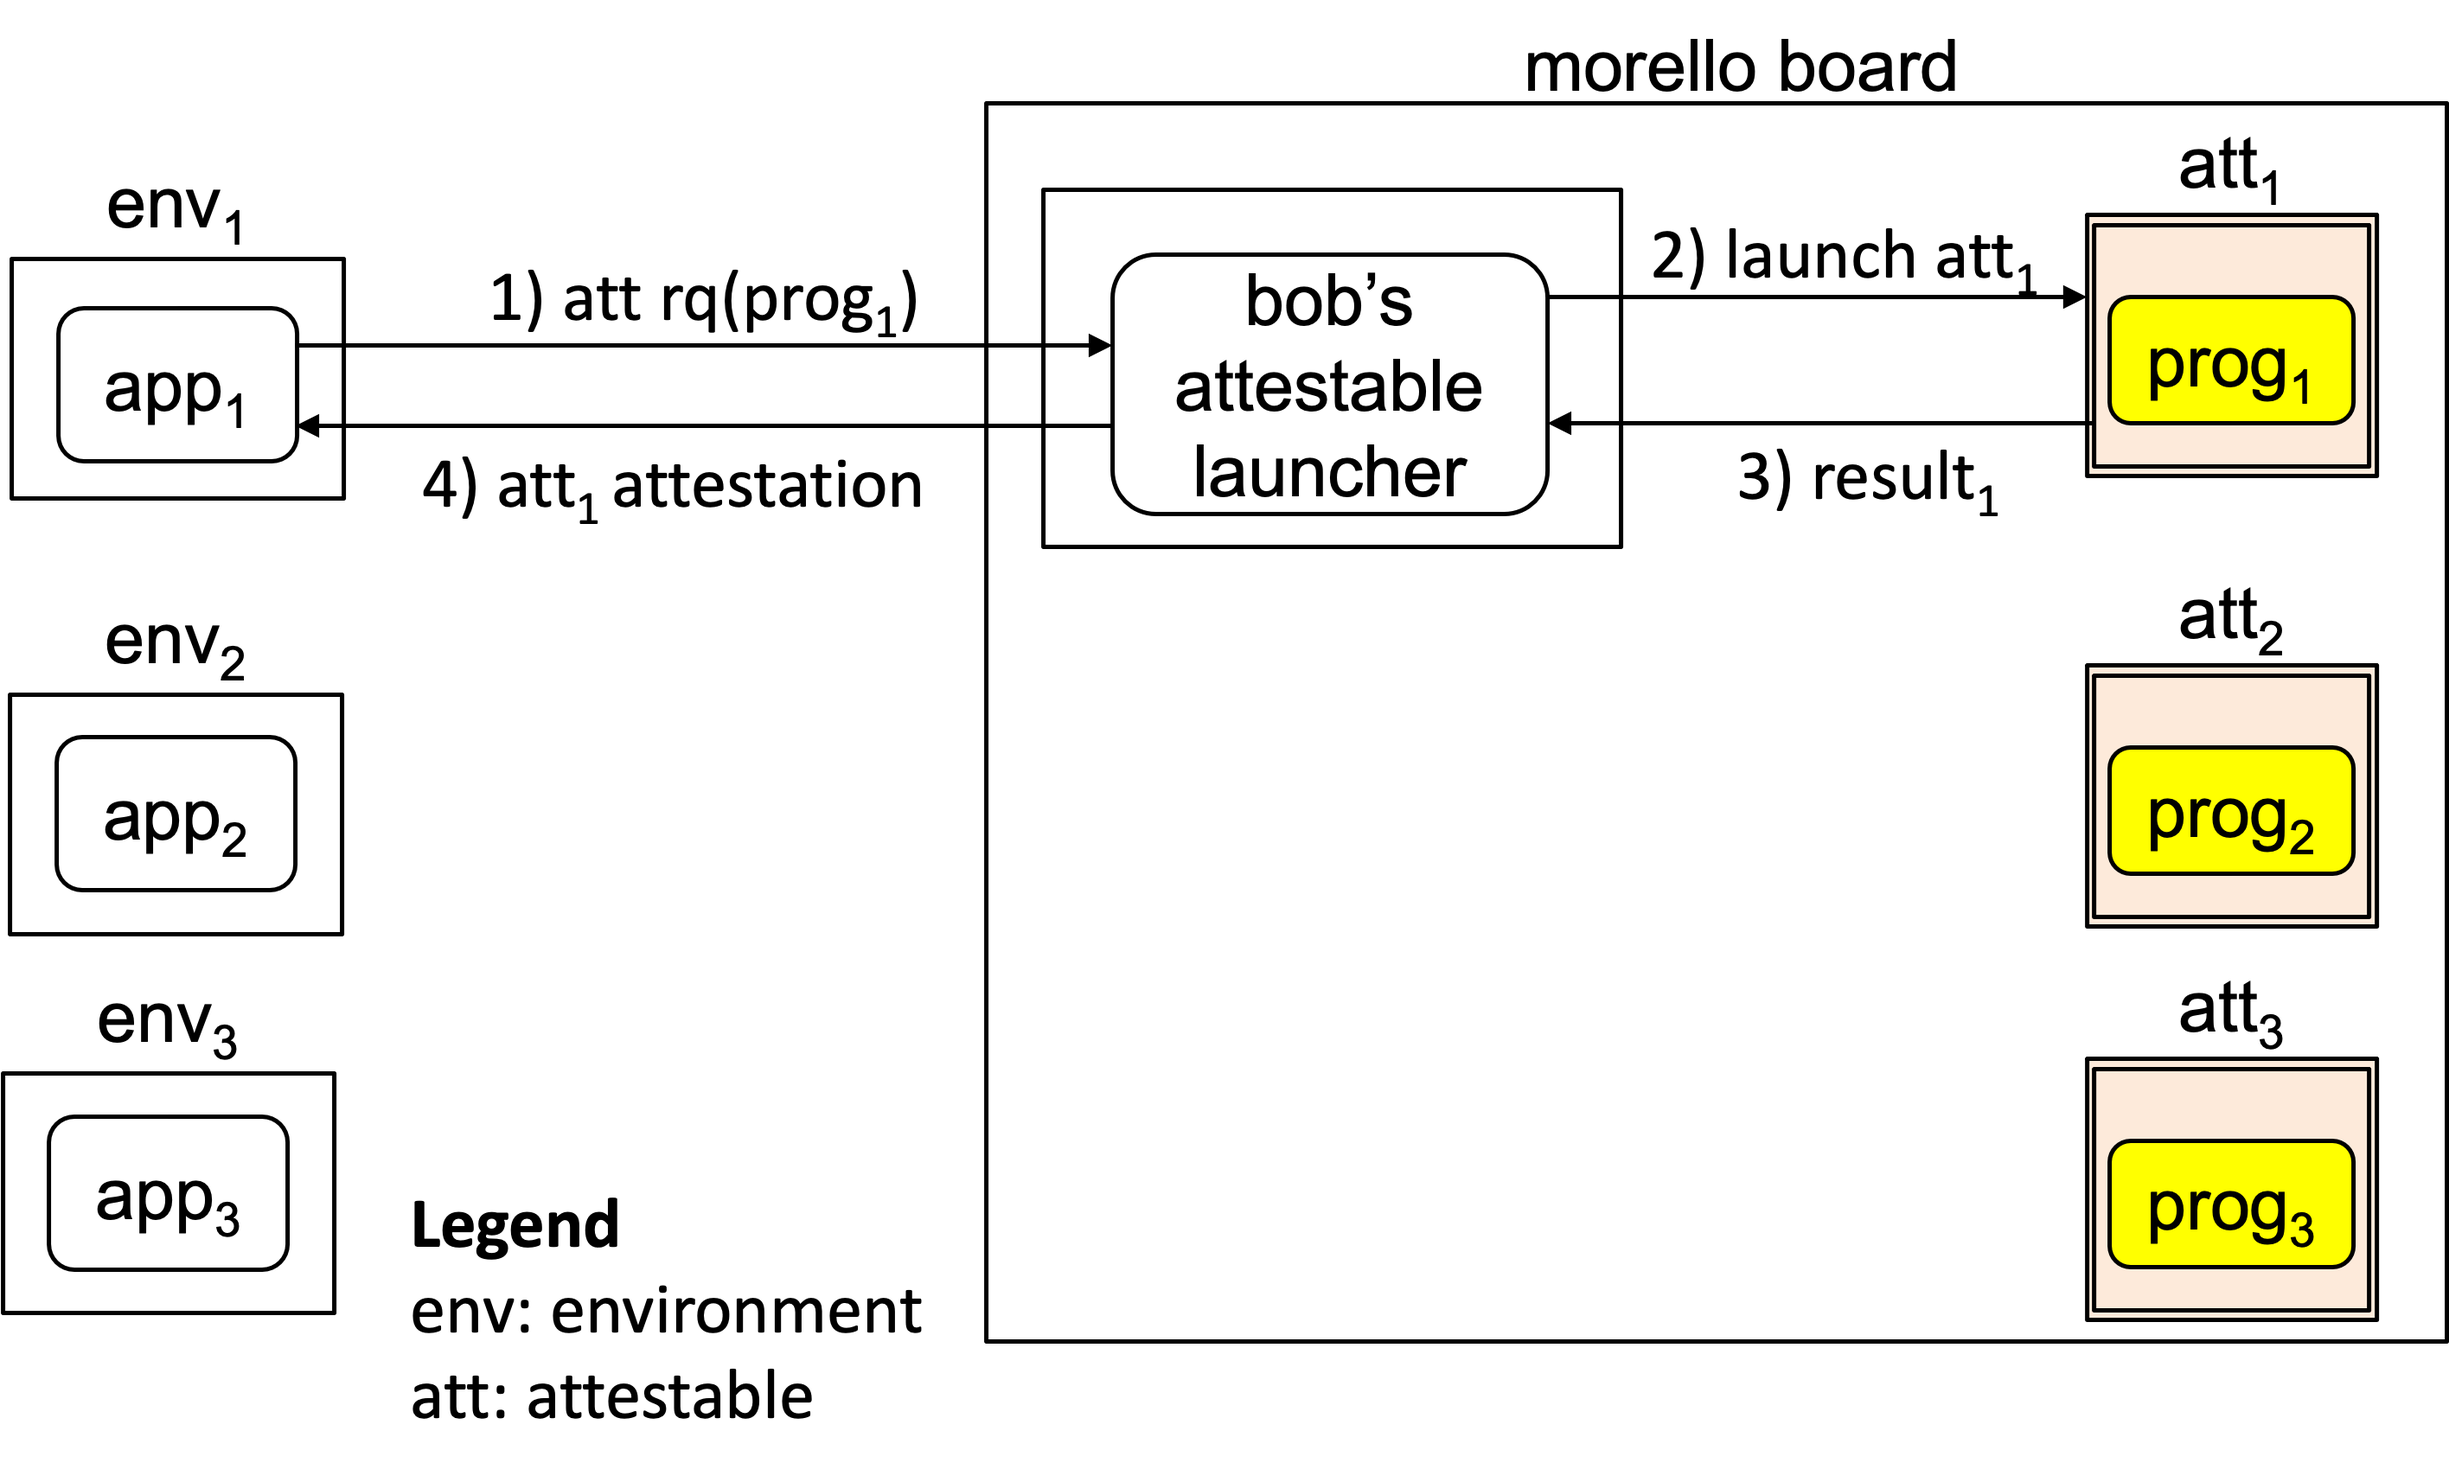
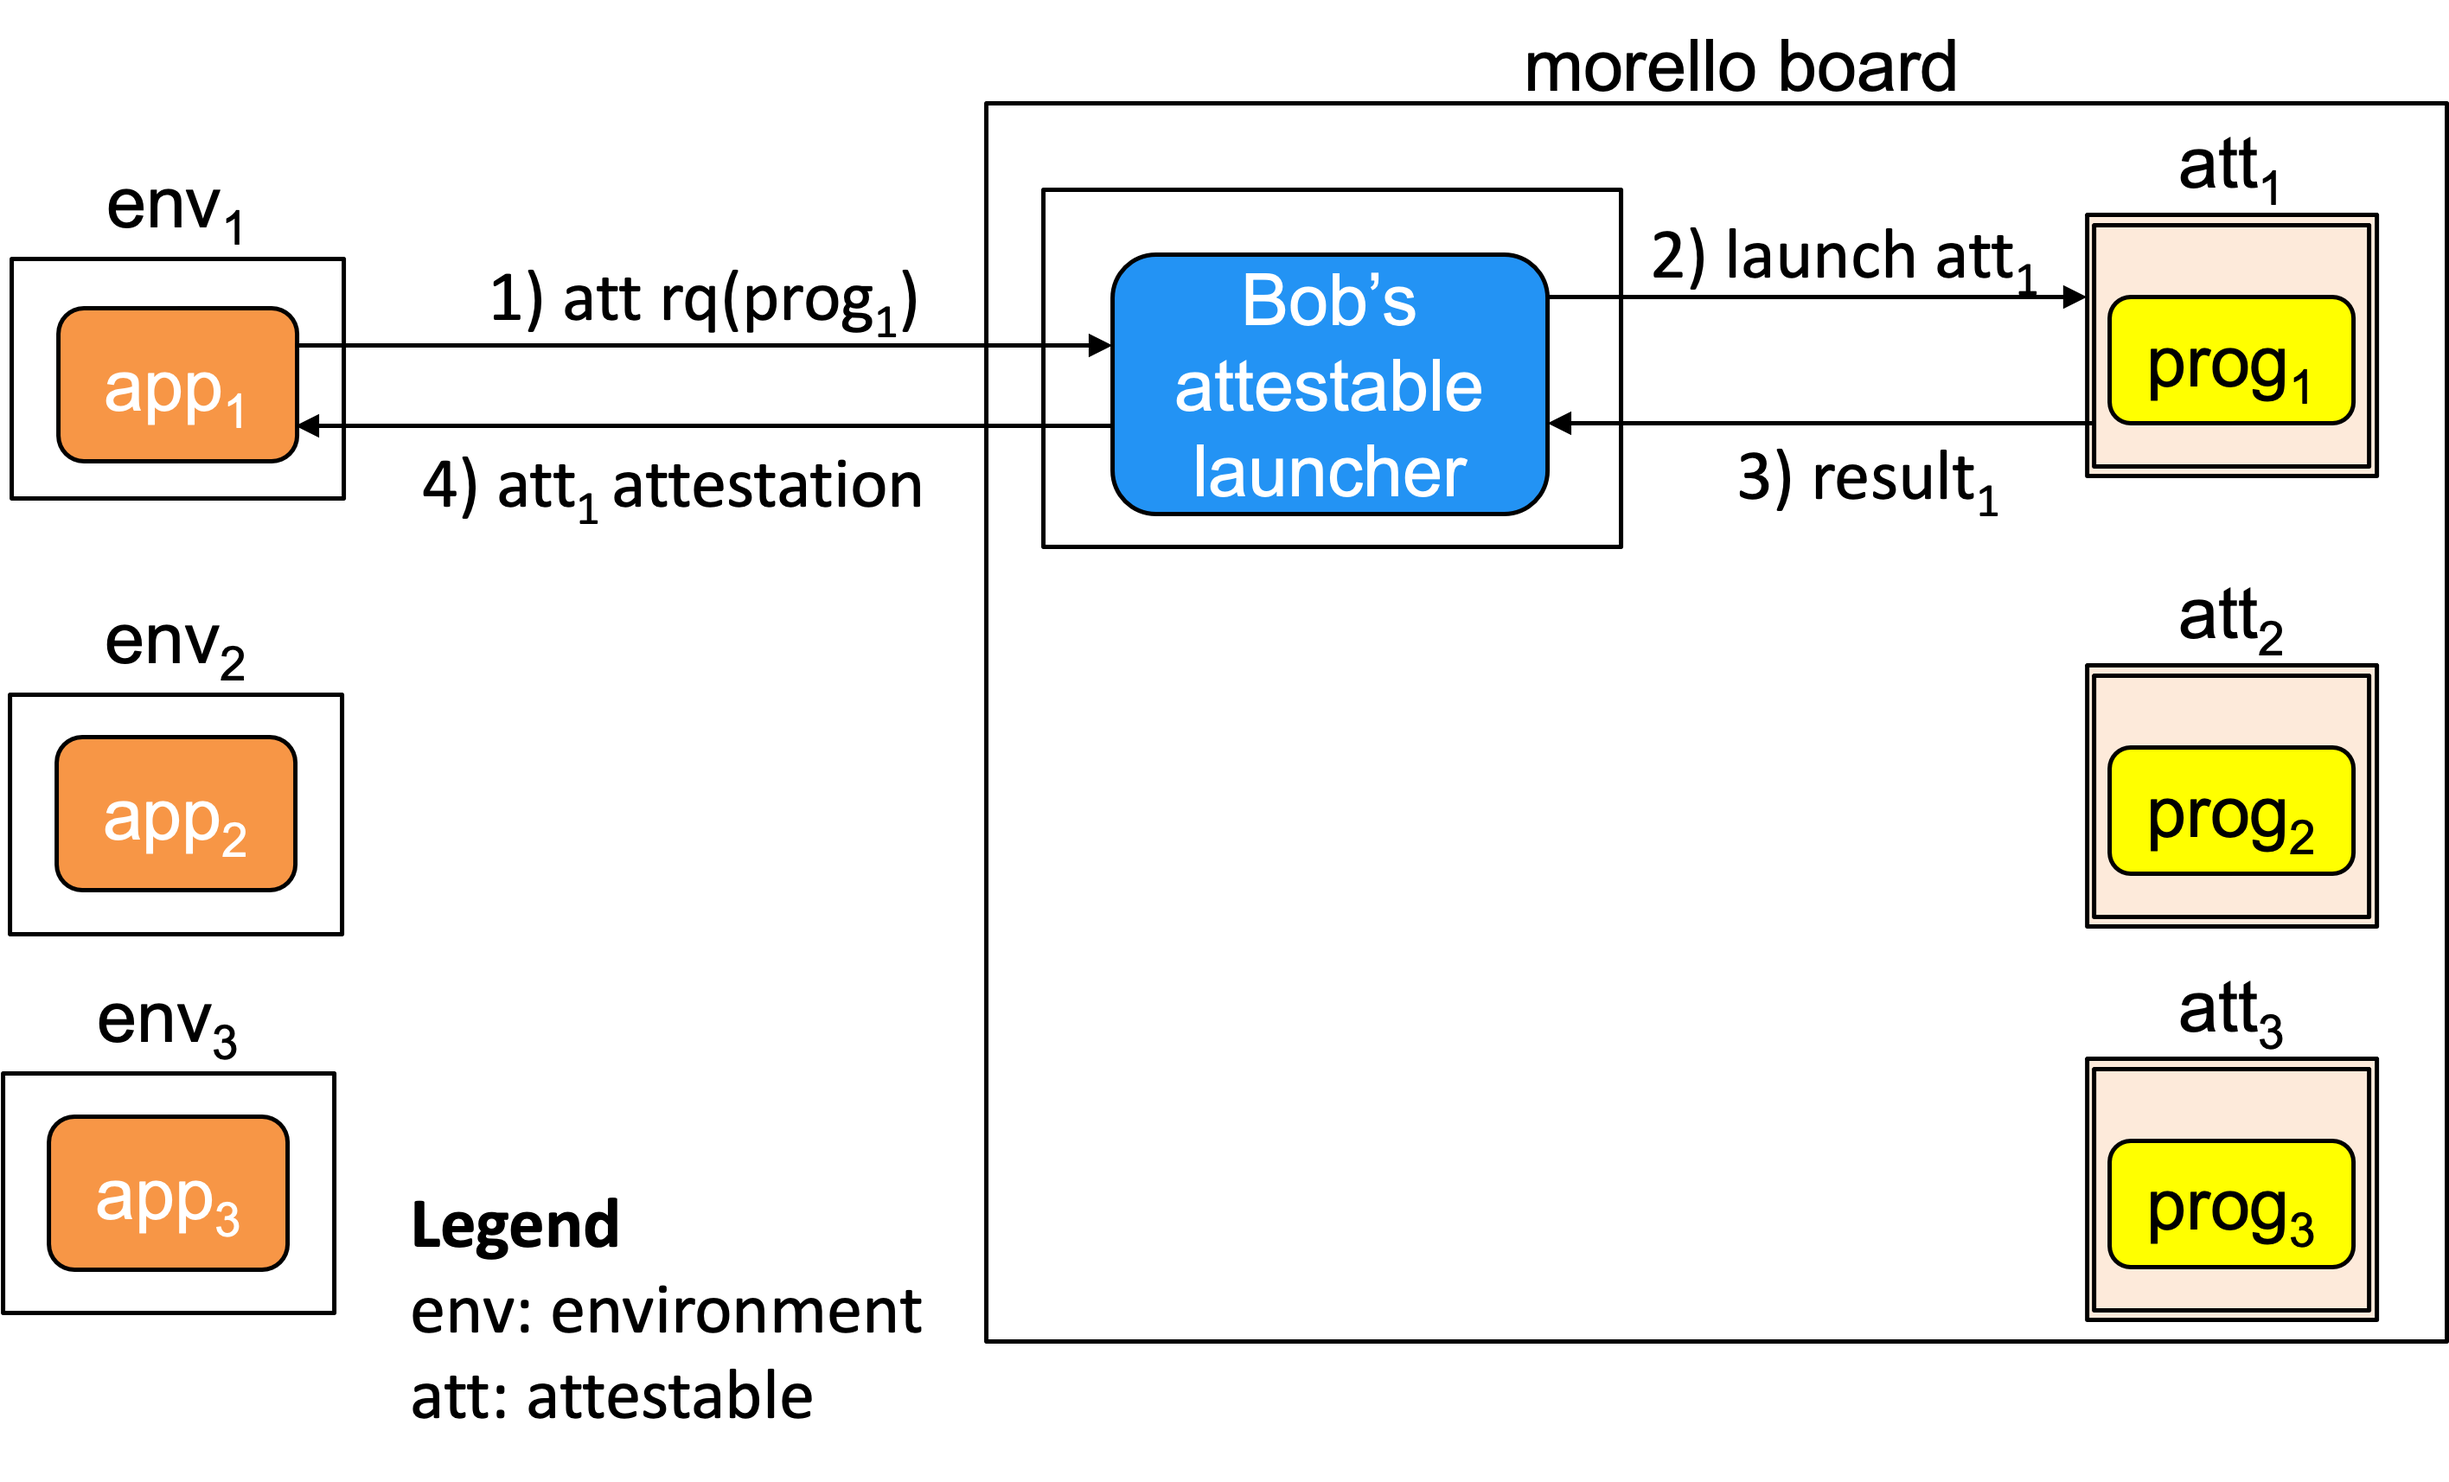
documentation

diff --git a/README.md b/README.md
@@ -144,9 +144,25 @@ can launch an interactive program
 
 
 # Implementation
-The current implementation has been coded in Python3
-with prog written in C using the library compartmentalization
-facilities available from cheriBSD ver 22.12
+We refer to the last figure to explain the pieces of
+code that compose the implementation.
+
+1. The current implementation of the attestable launcher (blue box)
+   has been coded and tested in Python3 (3.7.4 v3.7.4:e09359112e, 
+   Jul  8 2019, 14:36:03). 
+1. The application (gree box) that contacts the attestable launcher with
+   a request to launch __prog__ in an attestable has been implemented
+   in C.
+1. The program __prog__ (yellow box) launched into execution has 
+   coded in C. 
+1. The actual attestable (pink box) is created in C using the library 
+   compartmentalization facilities available from cheriBSD ver 
+   22.12. 
+   </br>
+   However, observe that in this demo, the attestable IS NOT
+   created in the actual Morello Board. That part of the
+   demo is pending. 
+1. The client (green box) has been implemented in C.
 </br>
 
 The headings also document the cryptographic libraries, operations
